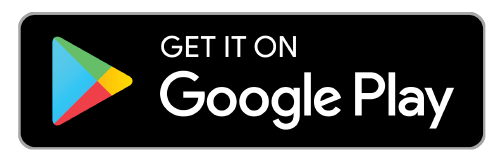
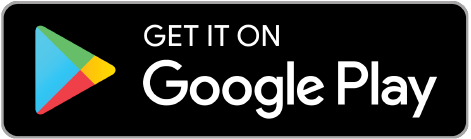
finish welcome page

diff --git a/index.html b/index.html
@@ -2,22 +2,95 @@
 <html lang="en">
     <head>
         <meta charset="utf-8">
-        <title>Gustoso</title>
+        <title>Welcome to Hillsong</title>
 
         <meta name="viewport" content="width=device-width, initial-scale=1.0">
 
         <link rel="stylesheet" href="https://cdnjs.cloudflare.com/ajax/libs/normalize/3.0.3/normalize.min.css">
         <link rel="stylesheet" href="stylesheet.css">
+    <style>
+        .flex-container {
+            display: flex;
+            flex-direction: column;
+        }
+        .horizontal-spacing {
+            display: flex;
+            justify-content: space-between;
+            width: 100%;
+        }
+        .vertical-center {
+            display: flex;
+            flex-direction: column;
+            justify-content: center;
+            align-items: center;
+            max-width: 50%;
+        }
+        .parent {
+            display: flex;
+            width: 100%;
+            justify-content: center;
+            flex-direction: column;
+        }
+        .dark-background {
+            background-color: black;
+            color: white;
+        }
+        .child {
+            margin: 0 auto;
+        }
+        .center {
+            max-width: 100%;
+            margin: 0 auto;
+        }
+        .uppercase {
+            text-transform: uppercase;
+        }
+    </style>
     </head>
 
     <body>
-      <div>
-        <div>
-            <a class="button button--textlink" href="http://itunes.apple.com/de/app/sennheiser-mobileconnect/id848127271" tabindex="0"><img src="apple.png" style="width:50%" alt="Download iOS App: Apple App Store"></a>
+      <div class="flex-container">
+        <div class="parent">
+            <img src="landing1.png" class="center">
         </div>
-        <div>
-            <a class="button button--textlink" href="http://play.google.com/store/apps/details?id=de.sennheiser.sst.mobileconnect" tabindex="0"><img src="android.png" style="width:50%" alt="Download Android App: Google Play Store"></a>
+        <!-- <div class="parent dark-background">
+            <div class="child center">
+                <div class="uppercase">Selamat, Anda Berhasil Terhubung!</div>
+                <div class="uppercase">
+                    Congratulations, You are Connected!
+                </div>
+            </div>
         </div>
+        <div class="parent">
+            <div class="child center">
+                <div class="uppercase">Lihat di Bawah Ini untuk Sistem Penerjemah Anda!</div>
+                <div class="uppercase">
+                    Scroll Down Here for Your In-Ear Translation System!
+                </div>
+            </div>
+        </div> -->
+        <div class="parent">
+            <img src="landing2.png" class="center">
+        </div>
+        <div class="parent">
+            <img src="landing3.png" class="center">
+        </div>
+        <div class="parent">
+            <img src="landing4.png" class="center">
+        </div>
+        <div class="horizontal-spacing">
+            <div class="vertical-center">
+                <div style="width: 80%">
+                    <a class="button button--textlink" href="http://itunes.apple.com/de/app/sennheiser-mobileconnect/id848127271" tabindex="0"><img src="apple.png" alt="Download iOS App: Apple App Store" style="margin: 0 0px; max-width: 100%"></a>
+                </div>
+                <div style="width: 80%">
+                    <a class="button button--textlink" href="http://play.google.com/store/apps/details?id=de.sennheiser.sst.mobileconnect" tabindex="0"><img src="android.png"alt="Download Android App: Google Play Store"
+                    style="margin: 0 0px; max-width: 100%"></a>
+                </div>
+            </div>
+            <div class="vertical-center">
+                <img src="landing5.png" class="center" style="max-width: 100%">
+            </div>
       </div>
     </body>
 </html>
